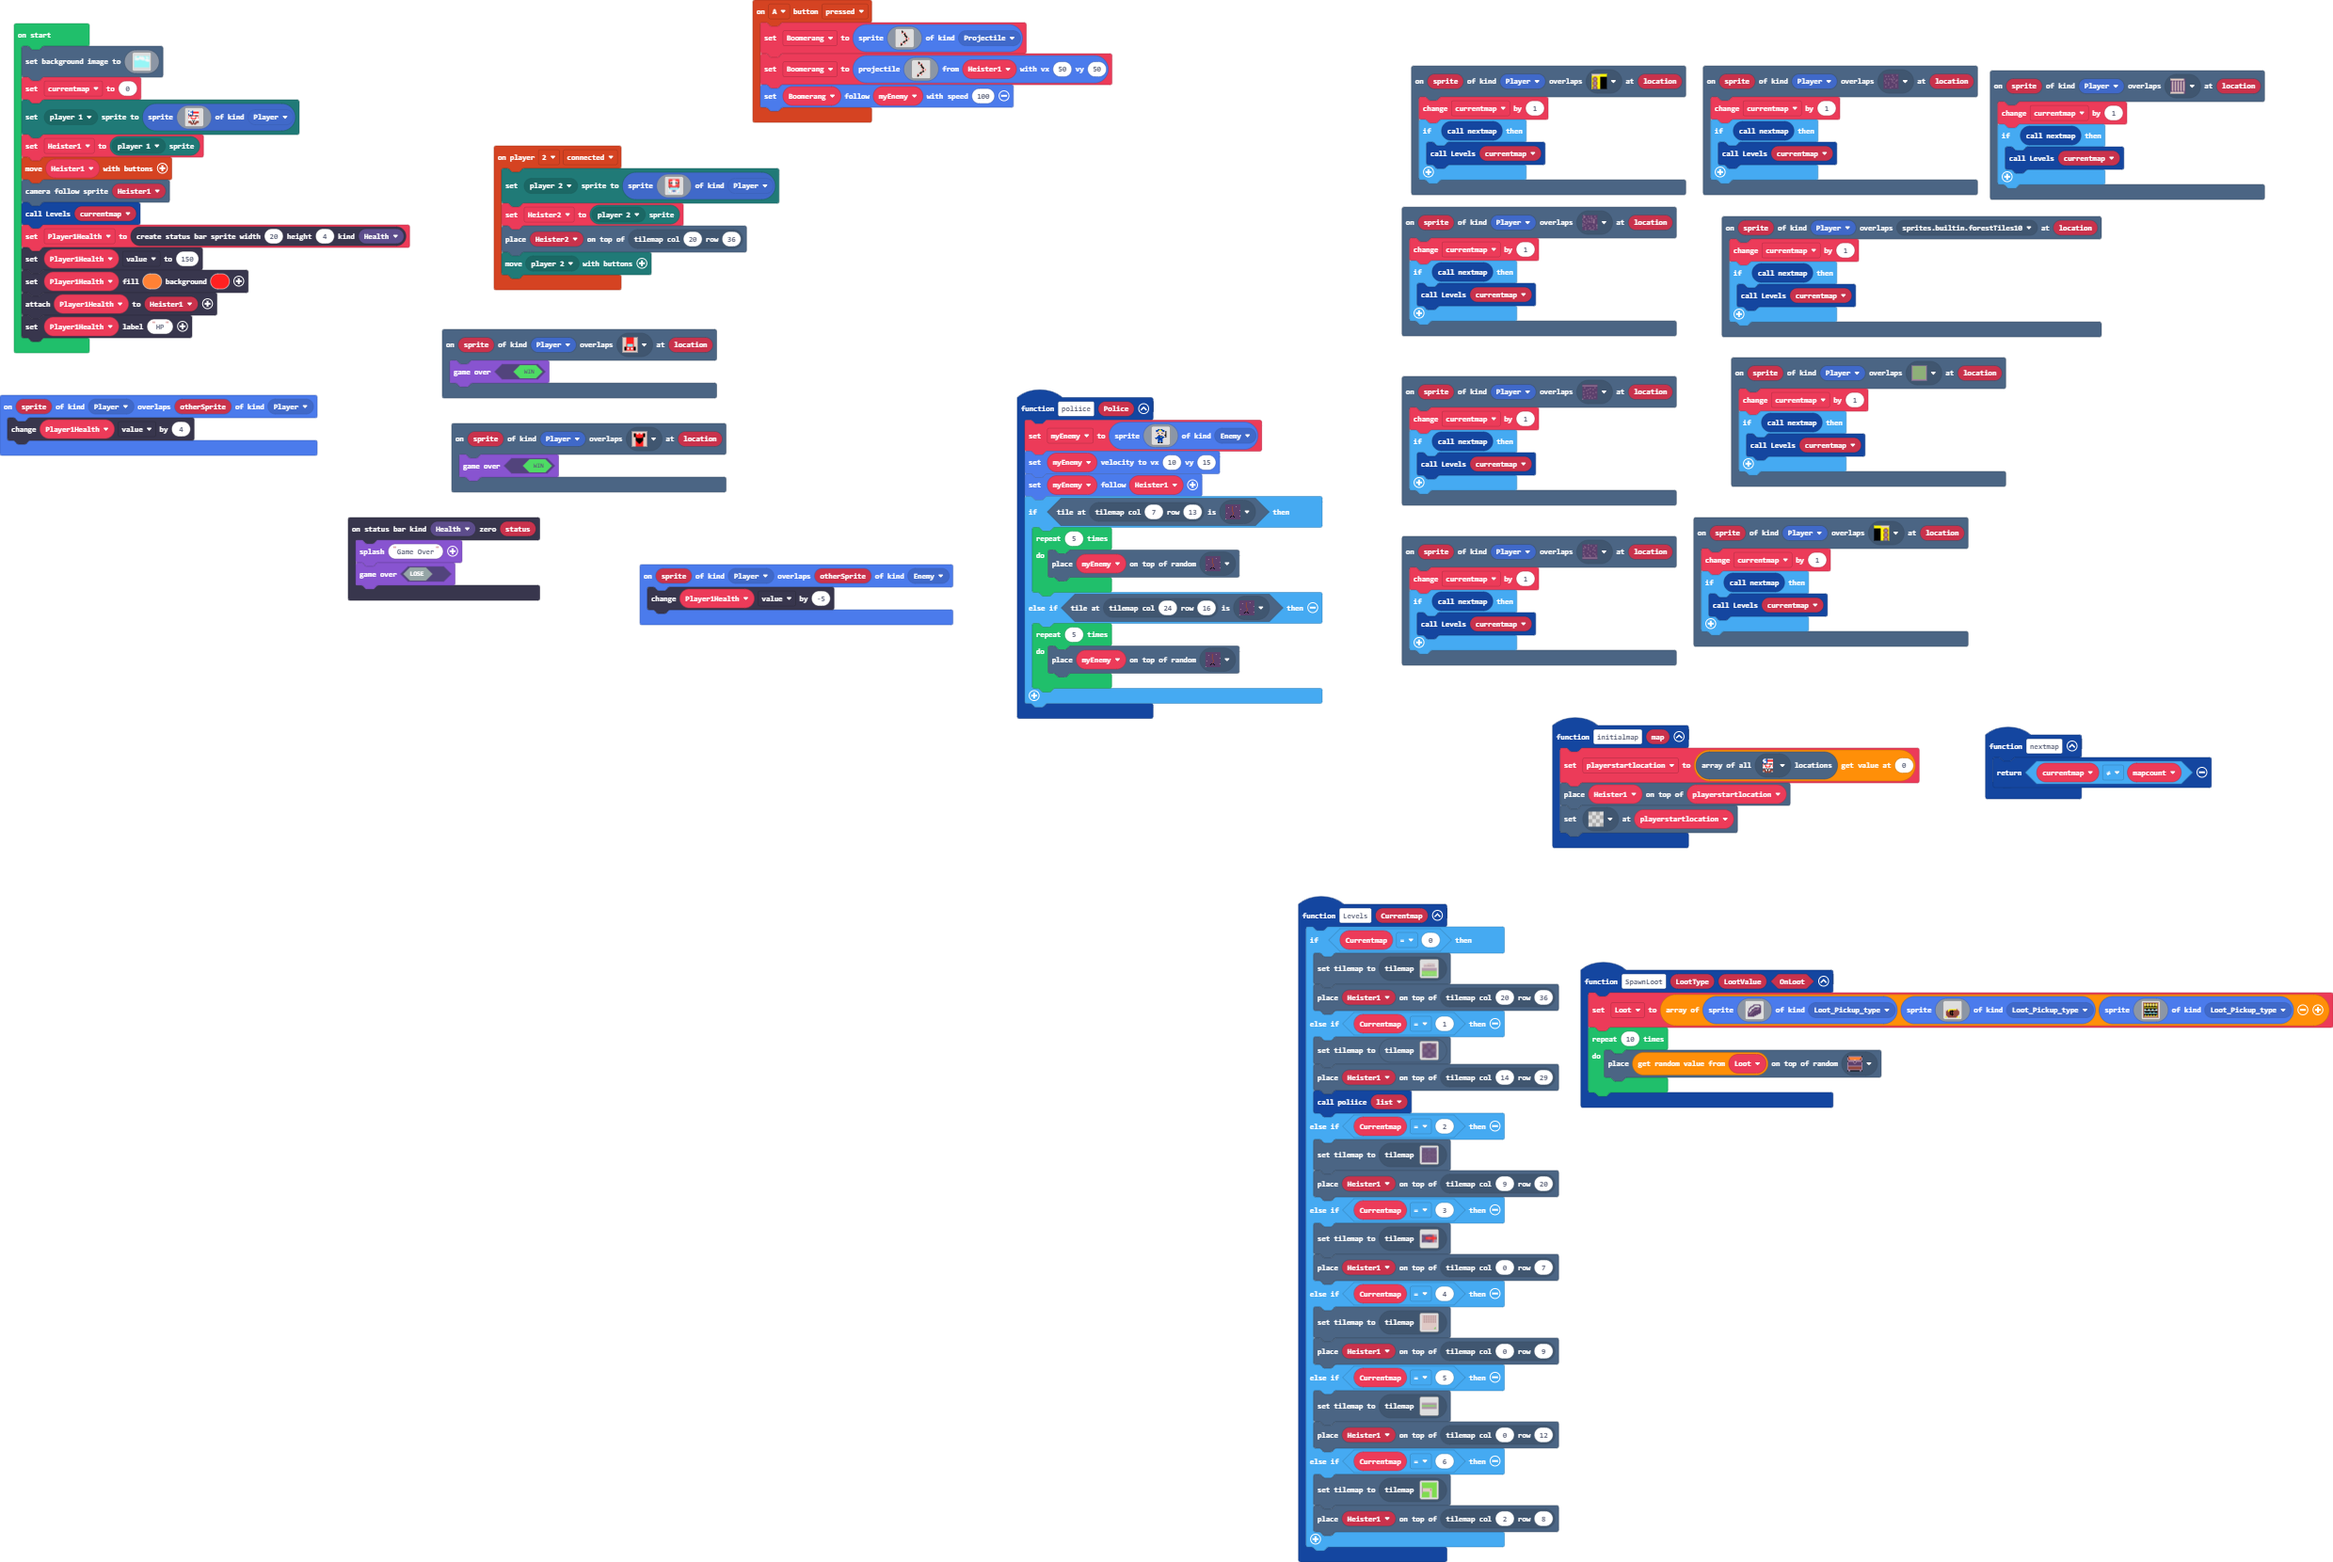
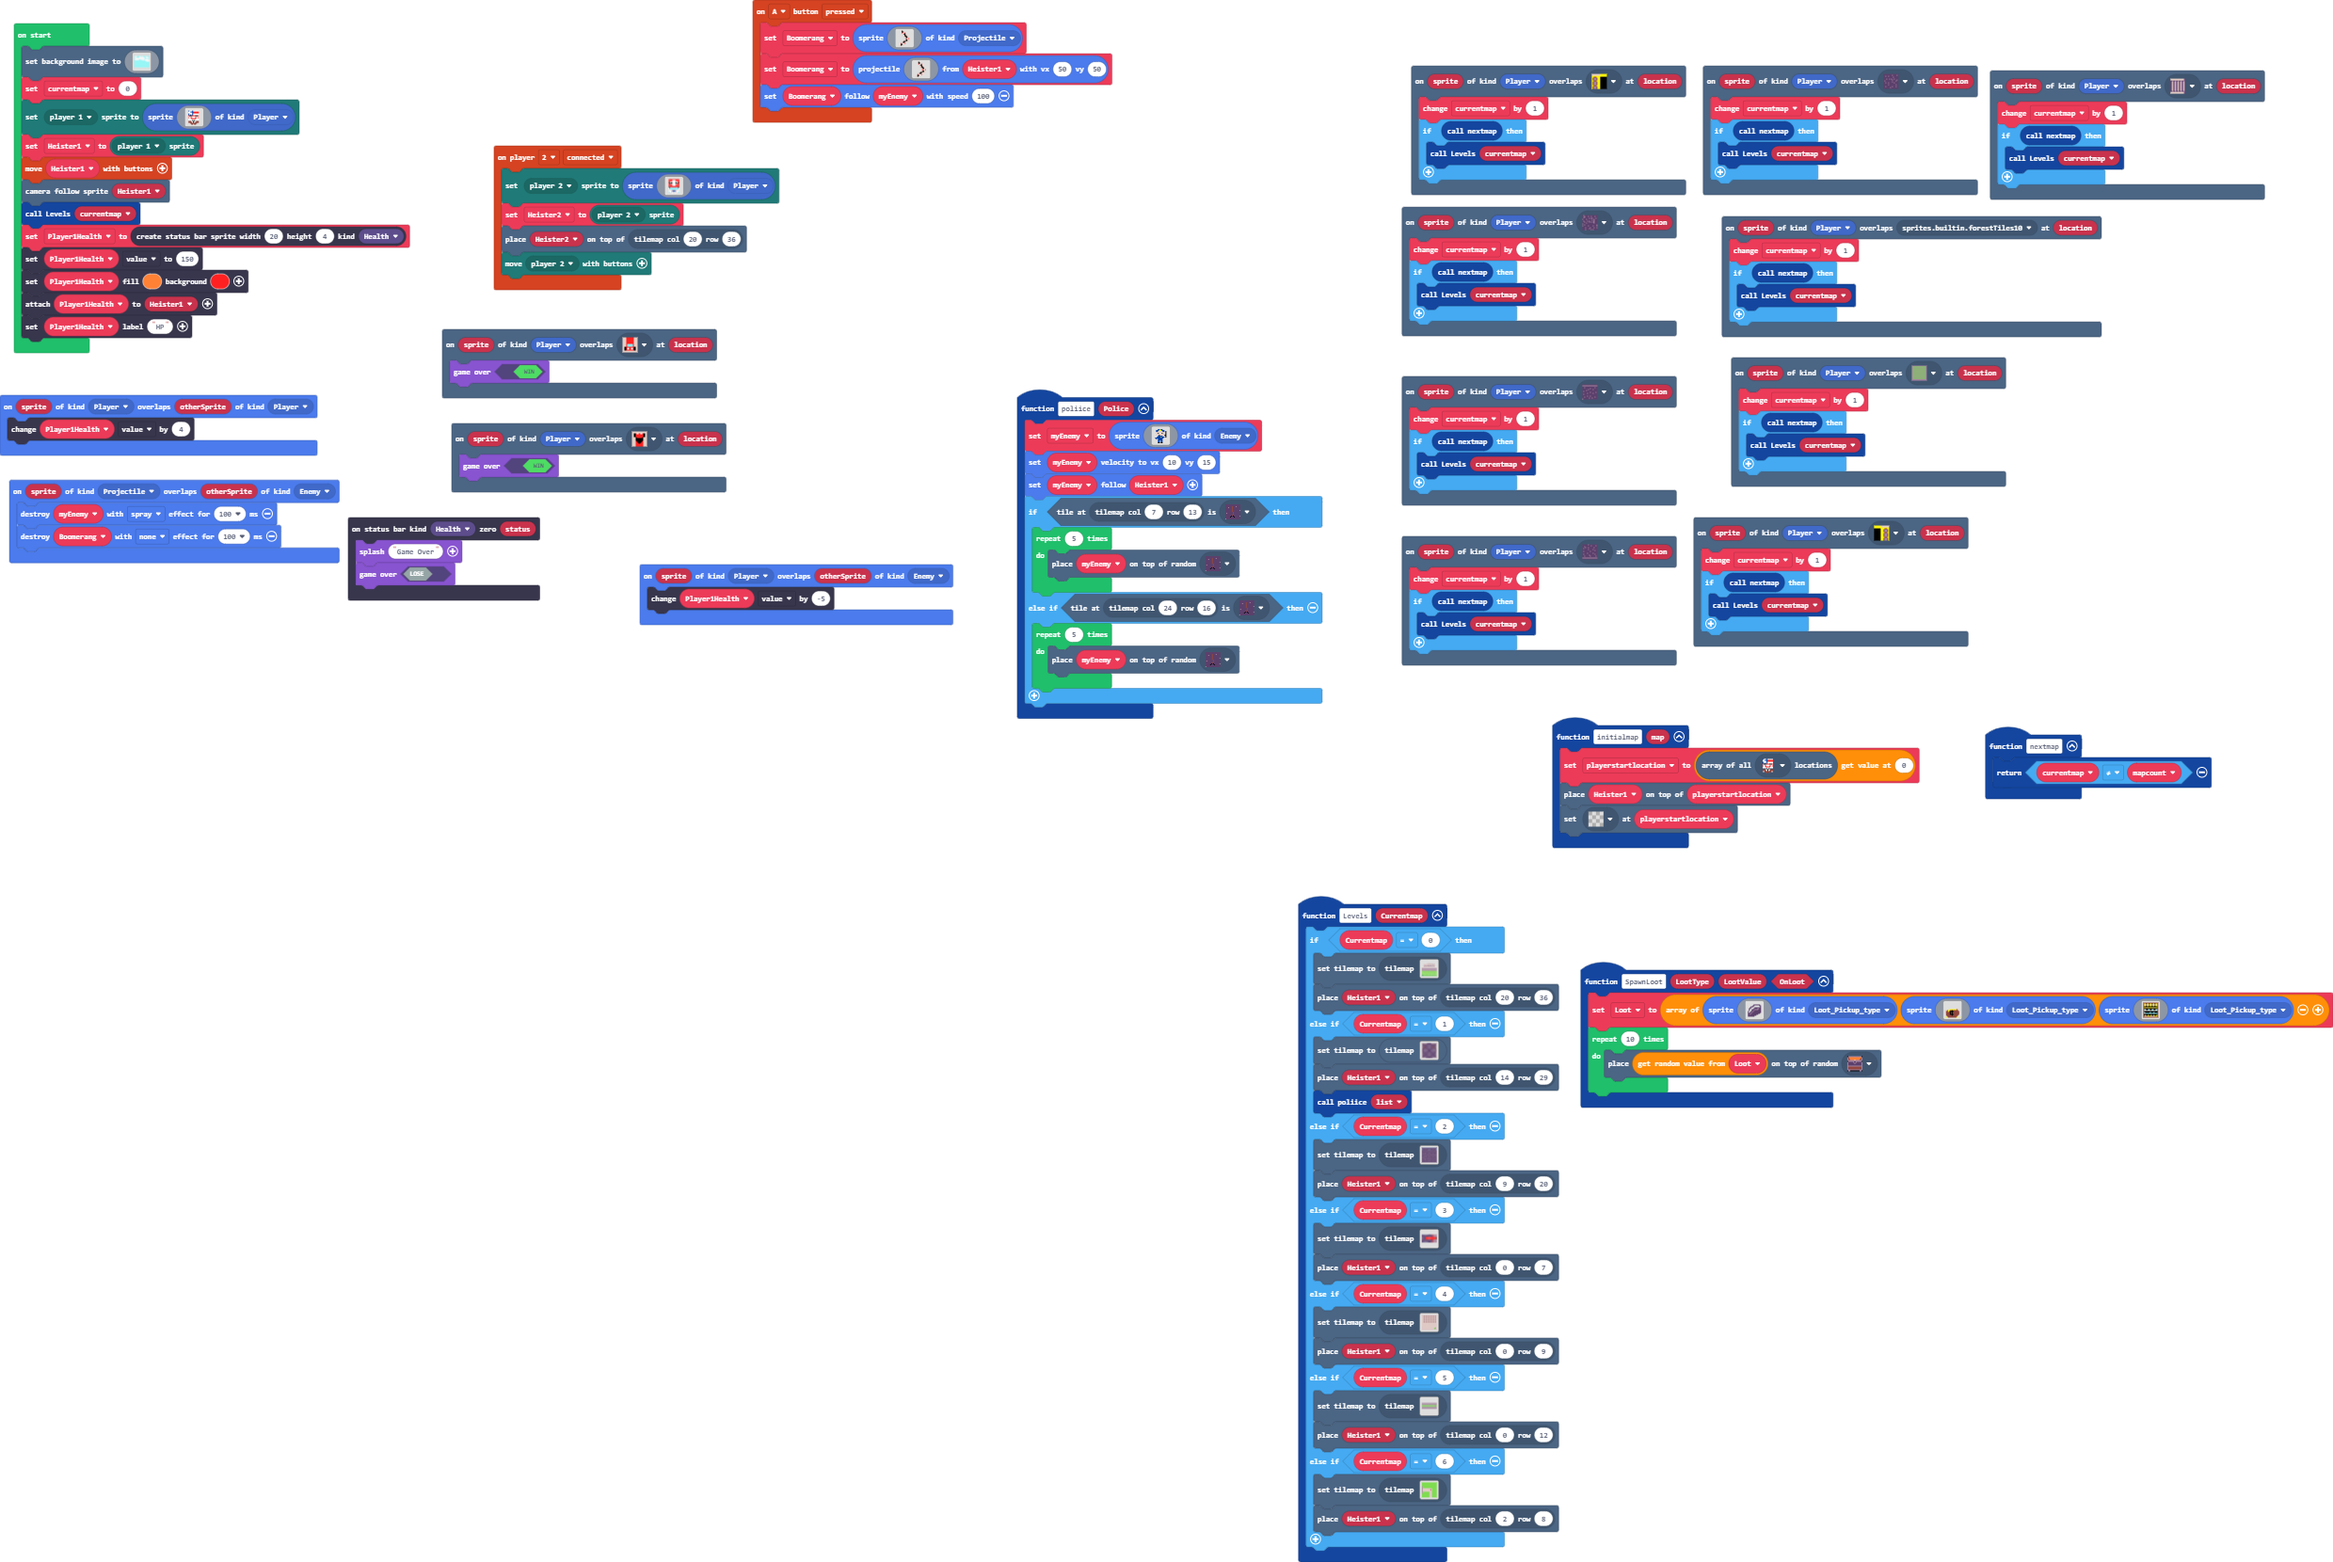
Update main.blocks, main.ts

Changed region(s): [[0.0, 0.3072, 0.1553, 0.3687]]

diff --git a/main.ts b/main.ts
@@ -119,6 +119,10 @@ function nextmap () {
     let mapcount = 0
     return currentmap != mapcount
 }
+sprites.onOverlap(SpriteKind.Projectile, SpriteKind.Enemy, function (sprite, otherSprite) {
+    sprites.destroy(myEnemy, effects.spray, 100)
+    sprites.destroy(Boomerang, effects.none, 100)
+})
 scene.onOverlapTile(SpriteKind.Player, assets.tile`myTile35`, function (sprite, location) {
     game.gameOver(true)
 })
